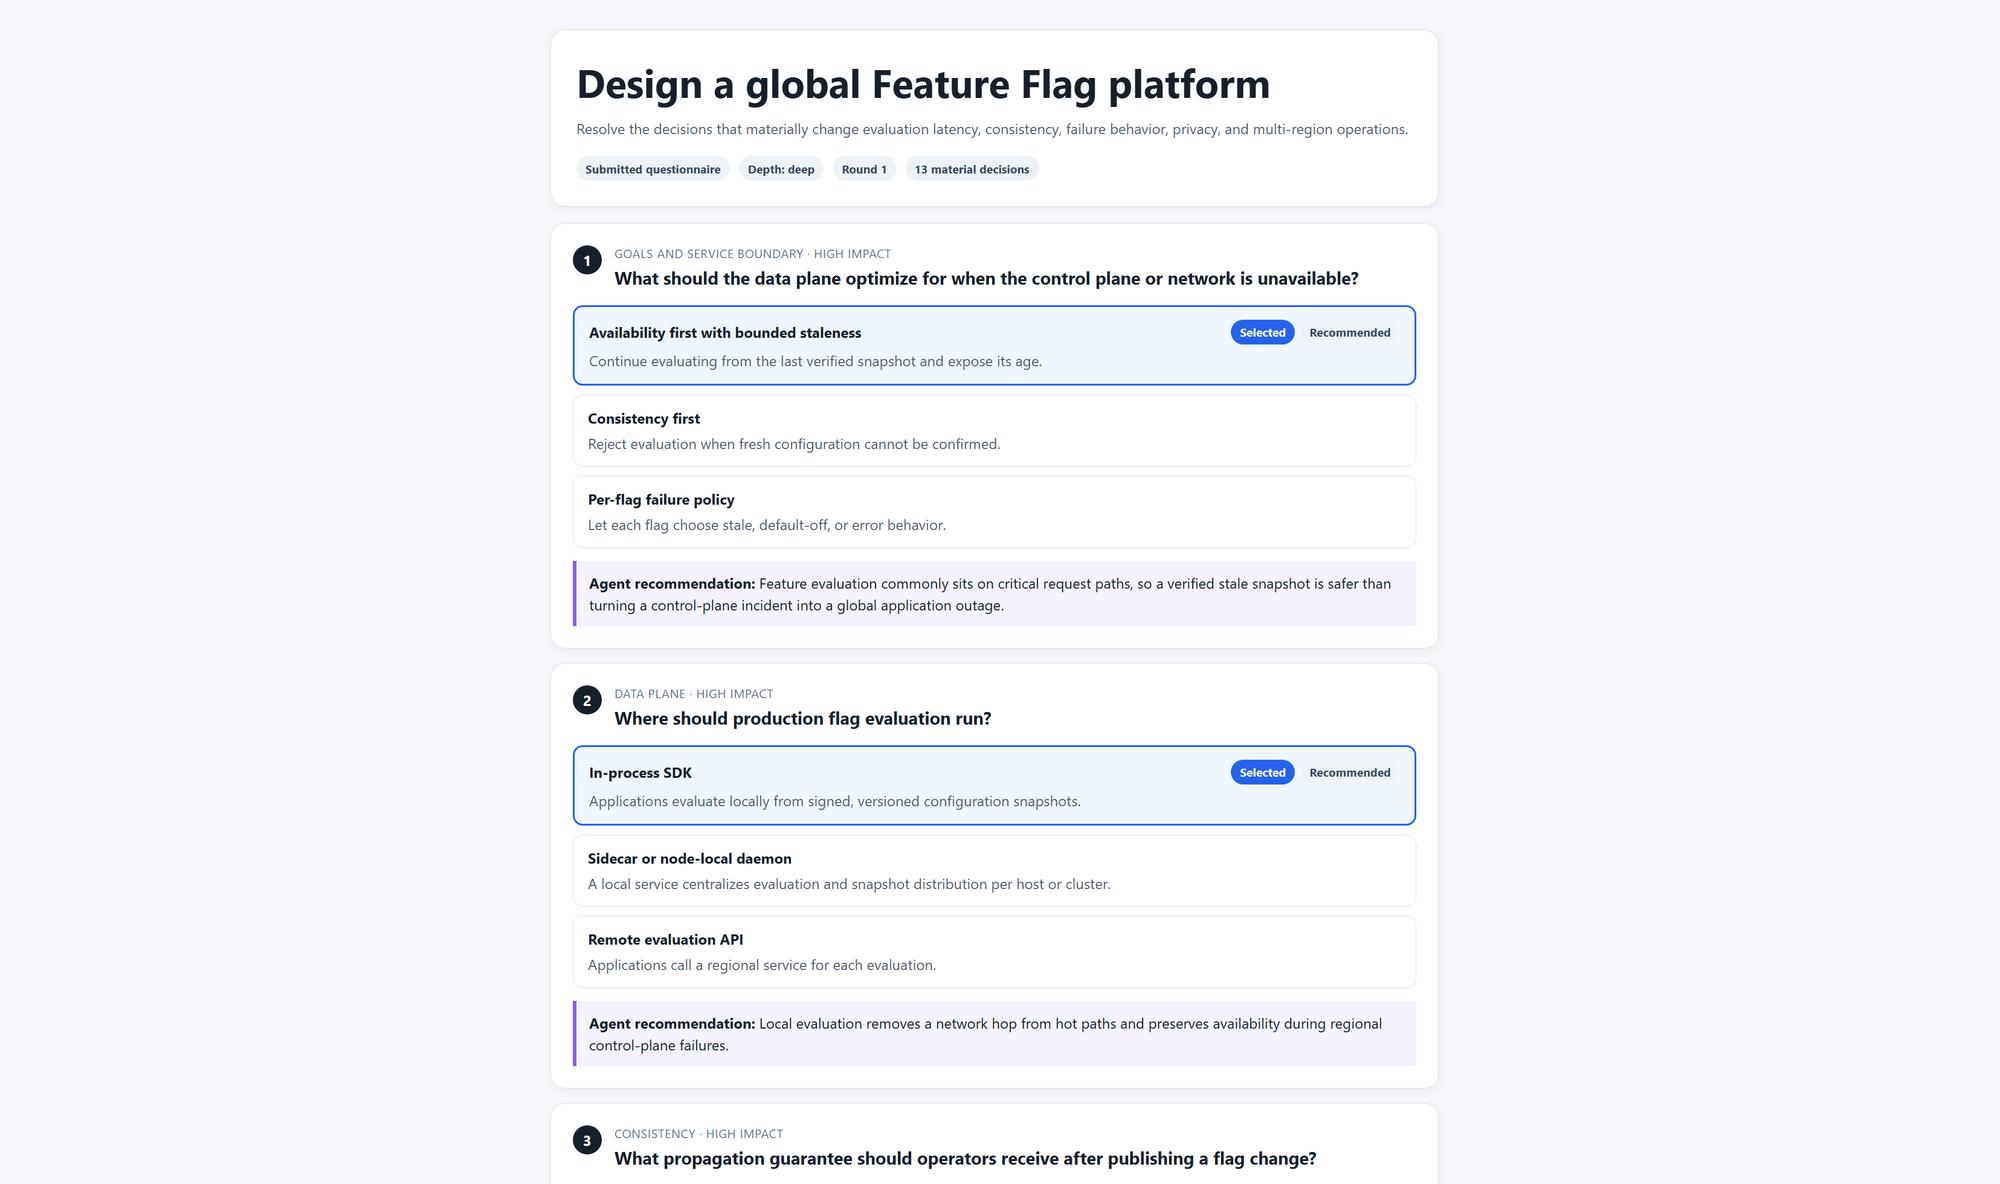
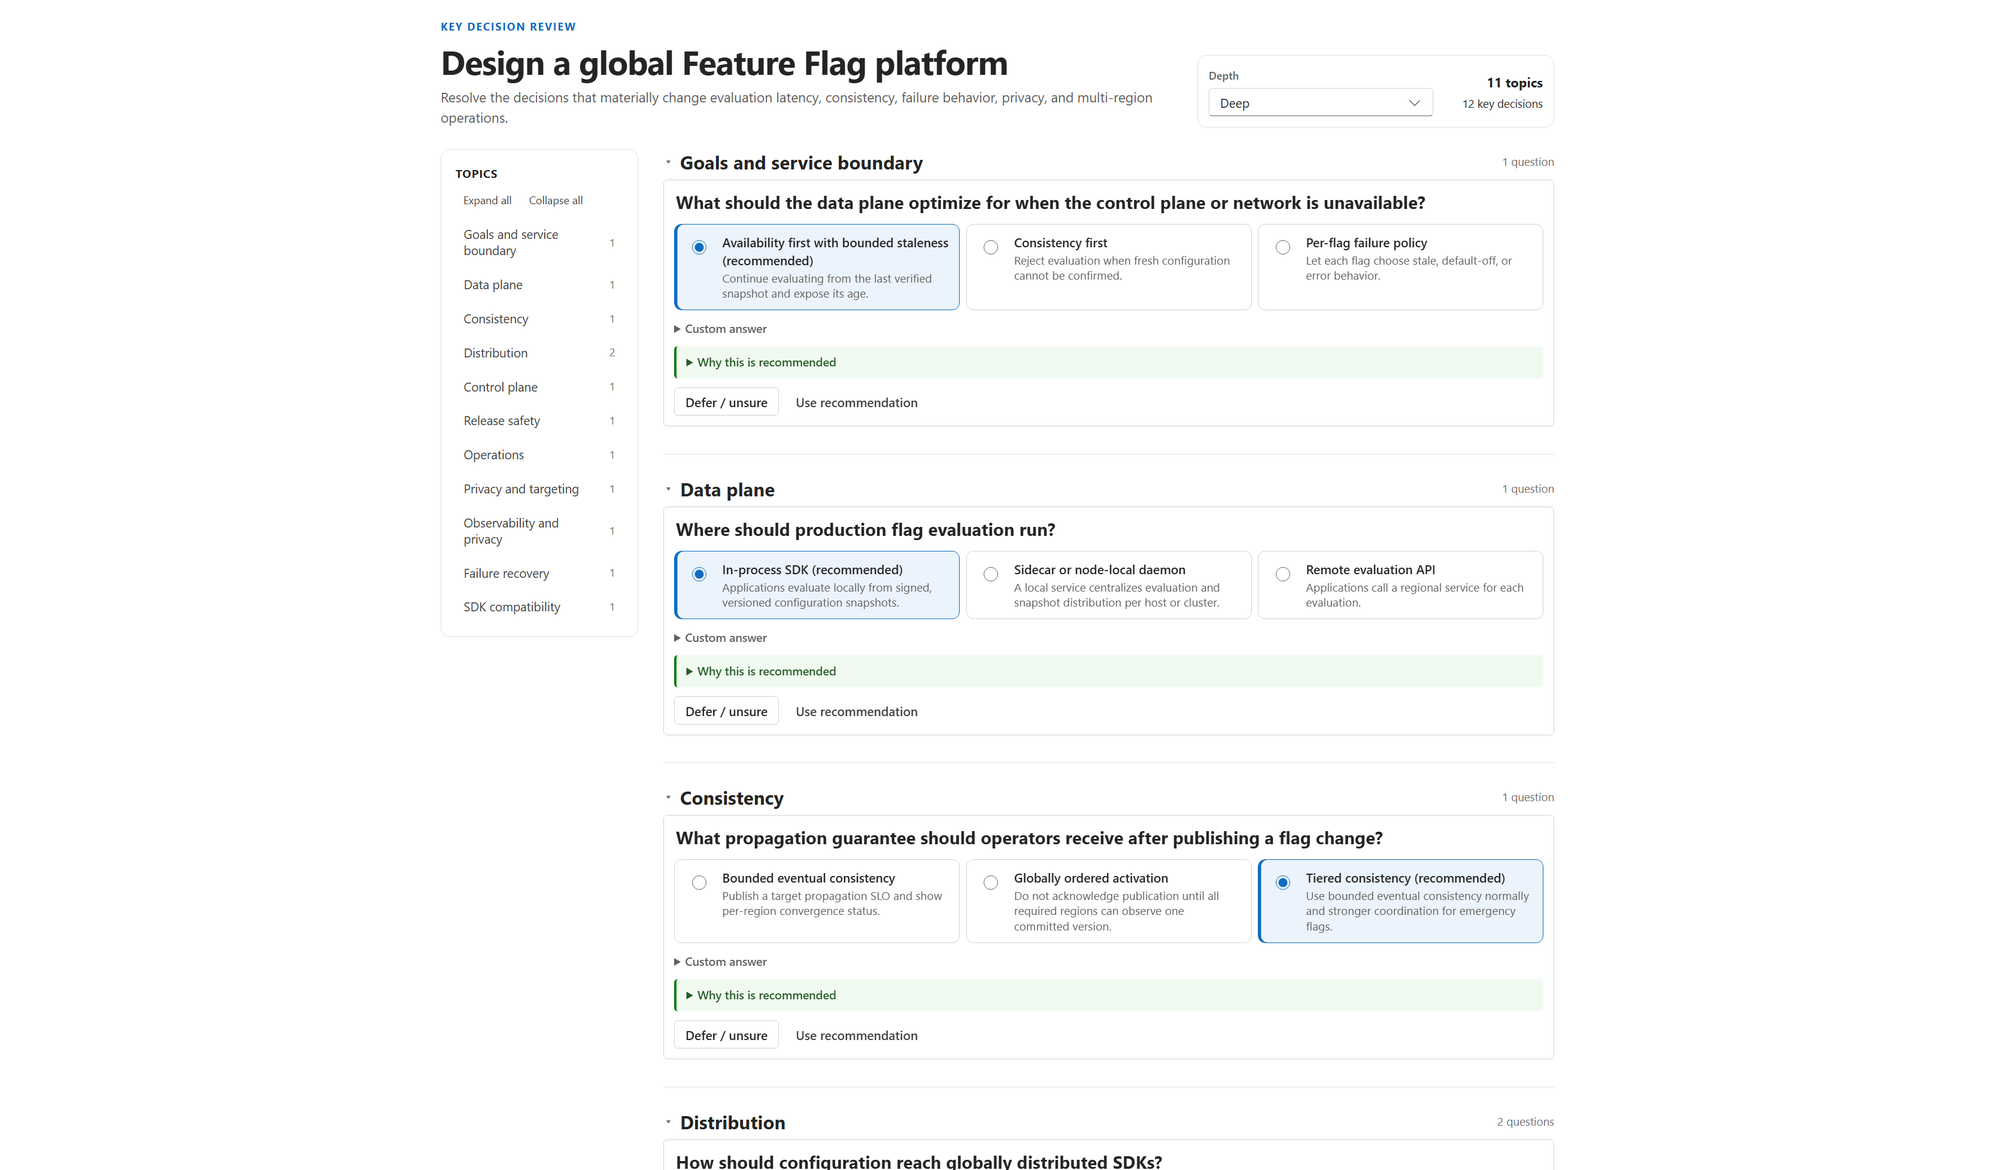
Update questionnaire preview in README

diff --git a/README.md b/README.md
@@ -65,9 +65,9 @@ Supporting JSON artifacts are included in the same folder for inspection and rep
 
 ### Questionnaire
 
-The questionnaire presents only material decisions, with the Agent recommendation preselected and its rationale and confidence visible.
+The questionnaire opens with material decisions and Agent recommendations preselected, ready for the user to review or change.
 
-![Global Feature Flag questionnaire with recommended options selected](examples/global-feature-flags/questionnaire-preview.png)
+![Global Feature Flag questionnaire waiting for user answers](examples/global-feature-flags/questionnaire-preview.png)
 
 ### Design review
 
